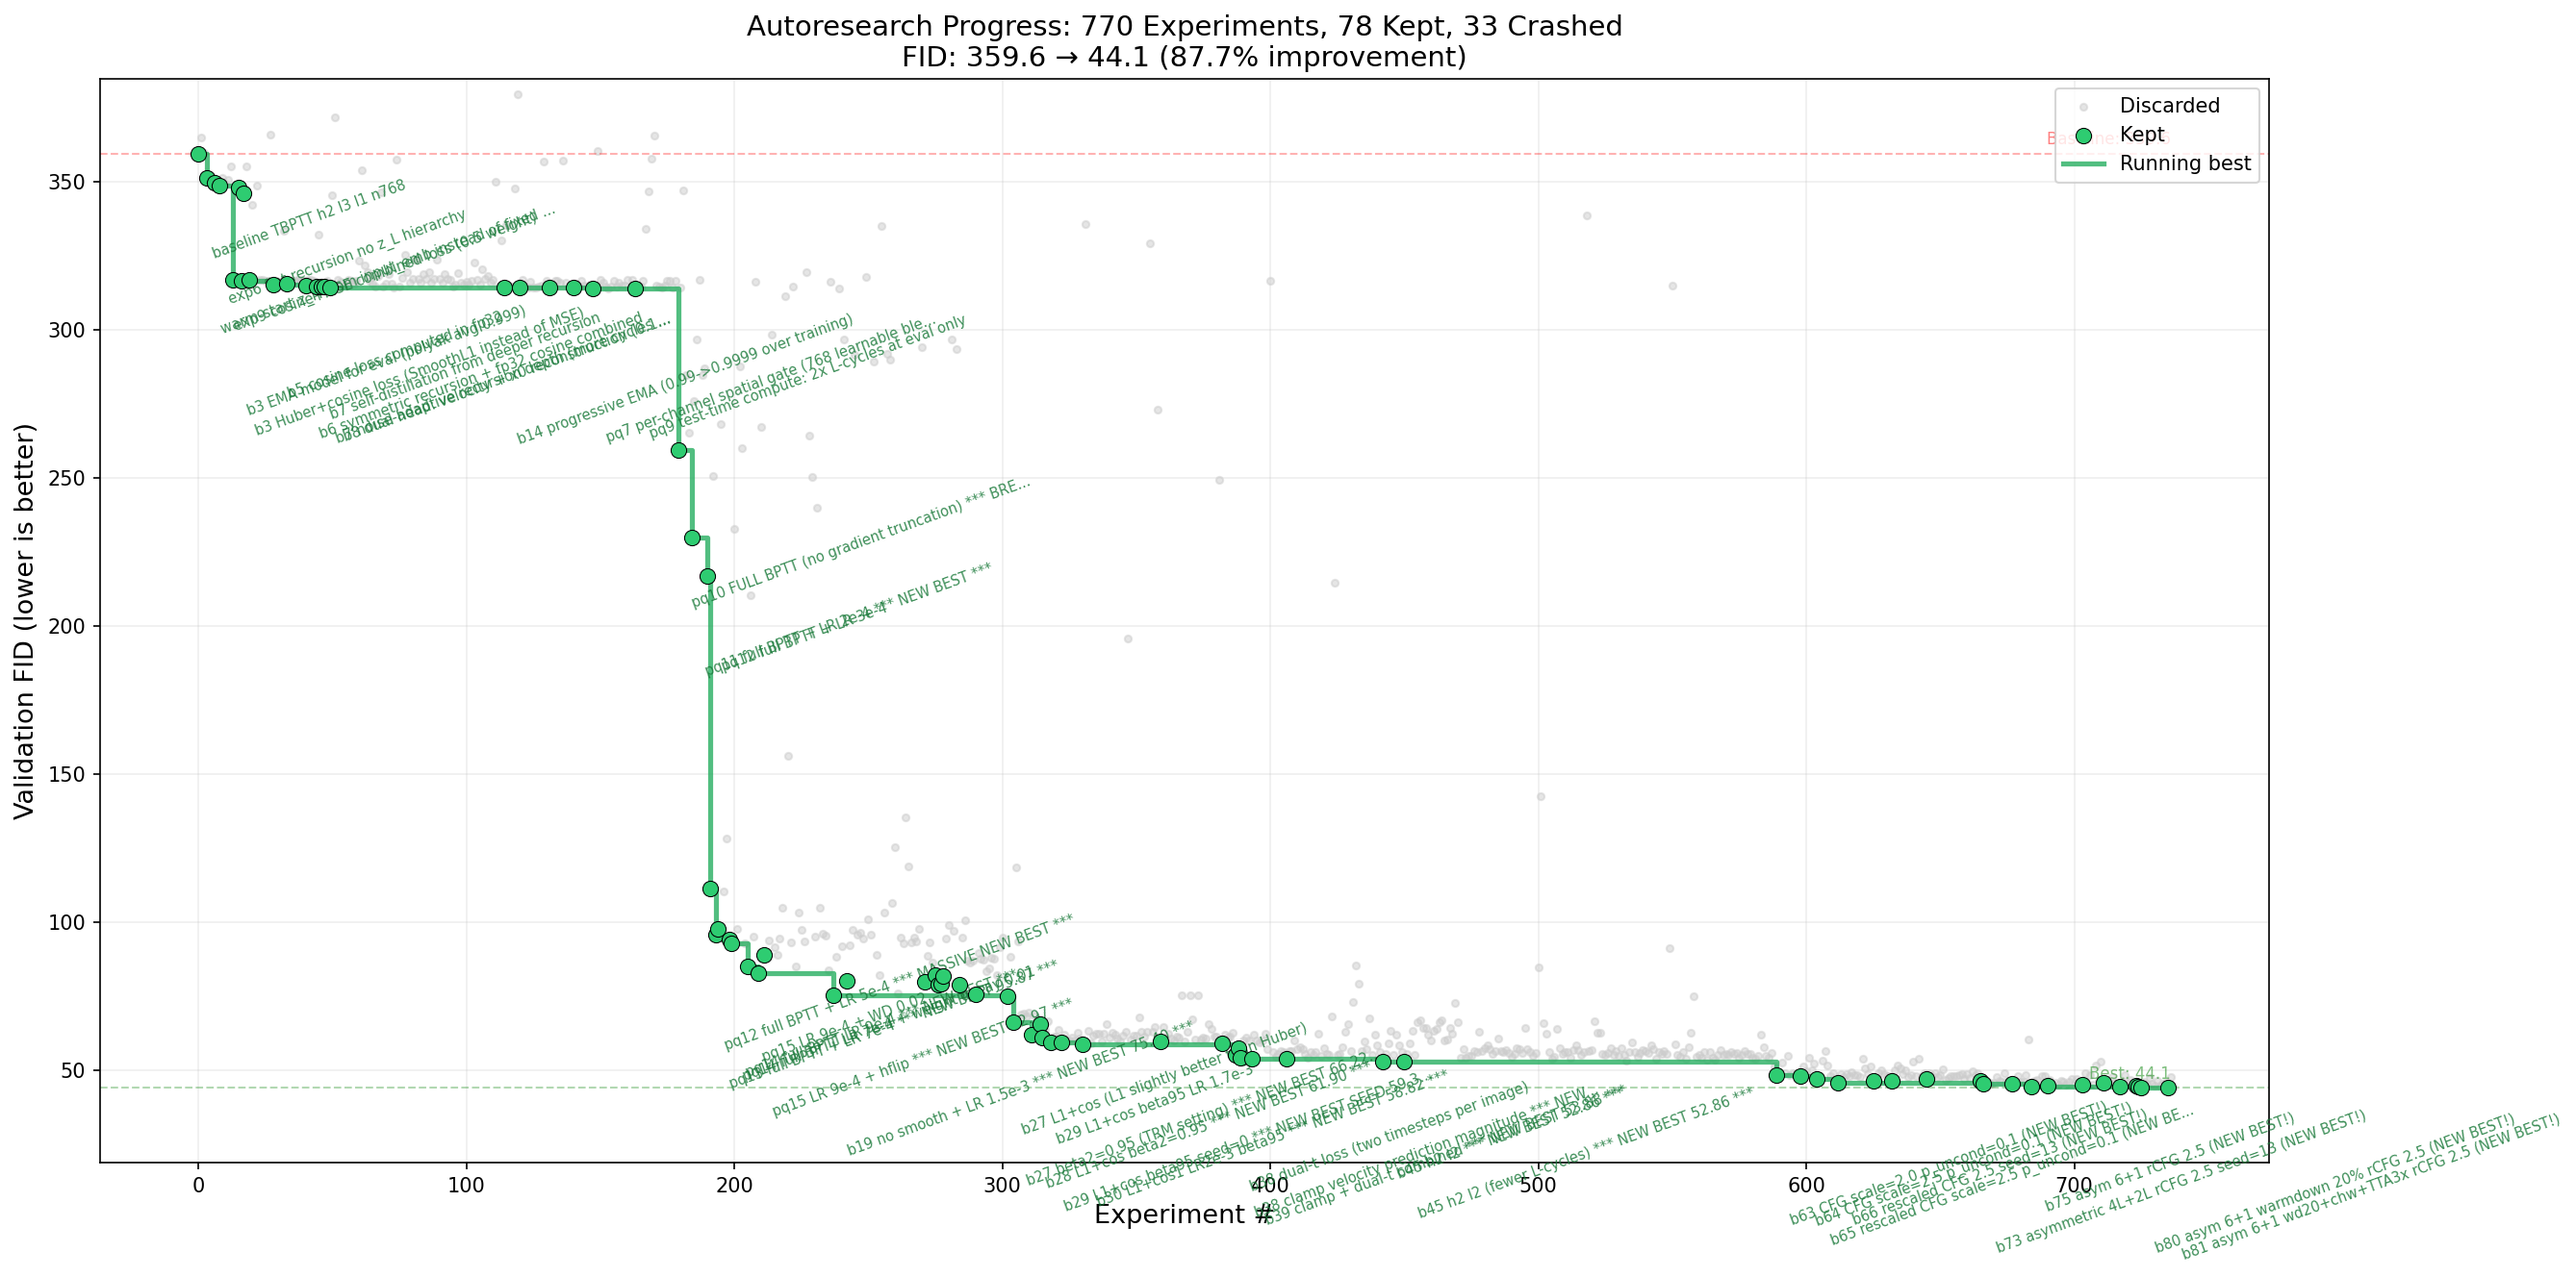
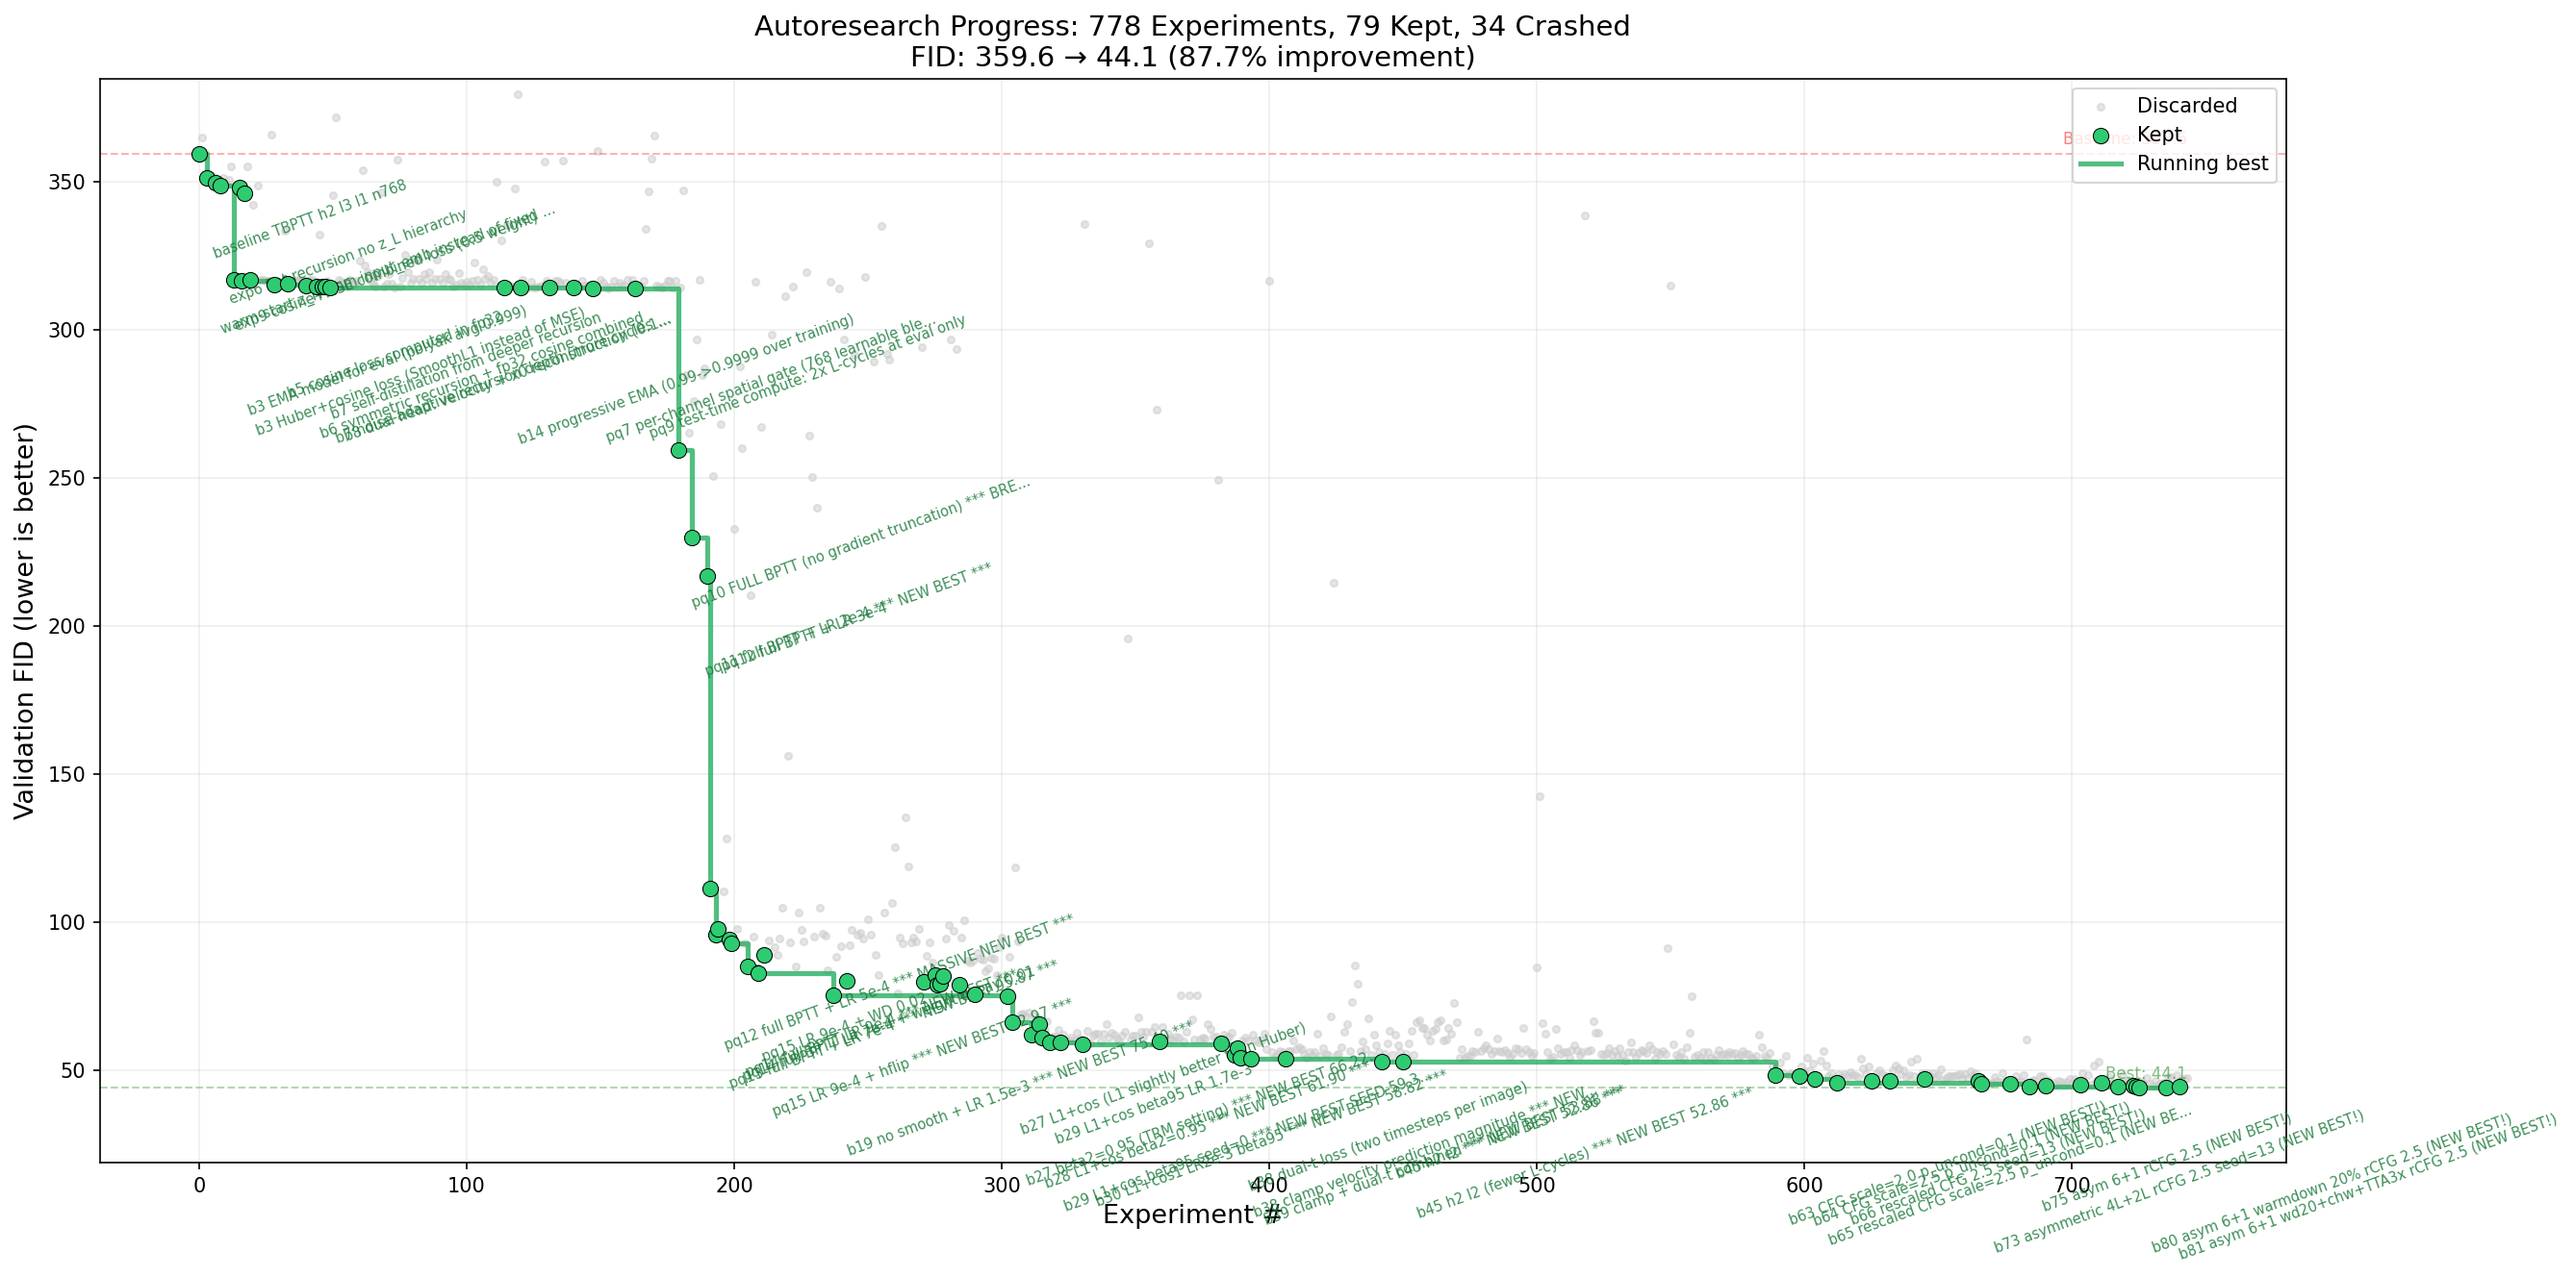
b82: neuroscience-inspired experiments — recursion history memory helps
Tested 5 creative ideas from computational neuroscience:
- Recursion history memory (EMA of z_L states): 44.55 (best of batch)
- Multi-step consistency loss: 44.98 (neutral)
- Contrastive CFG (wrong-class negatives): 47.75 (hurts)
- Predictive coding auxiliary loss: 48.52 (hurts)
- Hebbian gating: 285.31 (catastrophic)

The EMA memory idea (inspired by Alex Graves' NTM) shows promise — giving
the model access to its own recursion trajectory improves predictions.

wd20 baseline with more seeds: mean 46.15±1.3. The warmdown improvement
is within noise range of wd30.

779 experiments. FID 359→44.08 (87.7%).

diff --git a/ideas.md b/ideas.md
@@ -1153,3 +1153,99 @@ Analysis:
 Conclusion:
 Next Ideas to Try:
 -----------------------------------------------------
+
+-----------------------------------------------------
+idea_id: hebbian_z_update
+Description: Replace the standard additive input injection in l_level with a Hebbian-inspired update rule. Instead of z = z + injection, use z = z + alpha * (injection * z.mean(dim=-1, keepdim=True)) where the update is proportional to the correlation between the current state and the injection. This is inspired by Oja's rule from computational neuroscience, where synaptic weights update proportionally to pre-post correlation. The recursive shared-weight block already looks like a recurrent neural circuit — making the update rule Hebbian could improve how information flows through the recursion.
+Confidence: 5
+Why: Bio-mimetic learning rules like Oja's/Hebb's rule have shown surprising effectiveness in simple neural circuits. The TRM recursive structure IS a neural circuit with shared weights. A Hebbian gating mechanism (only update when injection correlates with current state) could help the recursion converge faster and more stably. The risk is that it changes the gradient flow significantly and may need LR adjustment.
+Time of idea generation: 2026-03-24 06:00
+Status: Not Implemented
+HPPs:
+Time of run start and end:
+Results vs. Baseline:
+wandb link:
+Analysis:
+Conclusion:
+Next Ideas to Try:
+-----------------------------------------------------
+
+-----------------------------------------------------
+idea_id: predictive_coding_loss
+Description: Inspired by Karl Friston's predictive coding theory and Rao & Ballard (1999): instead of computing loss only on the final output, add auxiliary "prediction error" losses at each recursion level. At each L-cycle step, the model predicts what the next z_L state should be, and the error between prediction and actual next state becomes an auxiliary loss. This forces each recursive step to make a meaningful prediction, not just pass information through. Implementation: after each l_level call, compute prediction_error = MSE(z_L_predicted, z_L_actual.detach()) and add 0.01 * prediction_error to the total loss.
+Confidence: 5
+Why: Predictive coding is how the brain is hypothesized to process hierarchical information — each level predicts the next and only passes prediction errors upward. Our recursive model has a natural hierarchy (z_L updates → z_H consolidation). Adding prediction error objectives at each level could improve gradient signal through the deep recursion (6 L-cycles in first H). Currently, gradients must flow through all 6 cycles from the final loss — auxiliary losses at each level provide local learning signals, similar to deep supervision in U-Nets.
+Time of idea generation: 2026-03-24 06:00
+Status: Not Implemented
+HPPs:
+Time of run start and end:
+Results vs. Baseline:
+wandb link:
+Analysis:
+Conclusion:
+Next Ideas to Try:
+-----------------------------------------------------
+
+-----------------------------------------------------
+idea_id: attention_to_recursion_history
+Description: Instead of only attending to the current z_H + input_emb in each L-cycle, let the model attend to a compressed history of previous recursion states. Maintain a running "memory" of past z_L states (e.g., exponential moving average) and concatenate it as extra key-value context in attention. This gives the model temporal context within the recursion — it can see how the representation has evolved. Inspired by Alex Graves' work on neural Turing machines and external memory.
+Confidence: 5
+Why: Currently each L-cycle step only sees the current z_L and z_H+input. It has no memory of how z_L evolved through previous cycles. A simple EMA memory (z_mem = 0.9*z_mem + 0.1*z_L after each cycle) concatenated as extra KV tokens in attention would give the model access to the recursion trajectory. This is a lightweight form of "thinking about thinking" — the model can observe its own refinement process. Risk: adds complexity to the attention and may slow down per-step time.
+Time of idea generation: 2026-03-24 06:00
+Status: Not Implemented
+HPPs:
+Time of run start and end:
+Results vs. Baseline:
+wandb link:
+Analysis:
+Conclusion:
+Next Ideas to Try:
+-----------------------------------------------------
+
+-----------------------------------------------------
+idea_id: stochastic_recursion_exit
+Description: Instead of always running exactly 6 L-cycles in the first H-cycle, implement a learned "exit gate" that decides when to stop iterating. After each L-cycle, a small MLP (z_L → scalar sigmoid) predicts a halting probability. Training uses the adaptive computation time (ACT) framework from Alex Graves (2016). This lets the model dynamically allocate compute: easy images exit early (saving compute), hard images use all 6 cycles. The "ponder cost" penalty encourages efficiency. This is directly inspired by Graves' original ACT paper and Schmidhuber's work on self-delimiting programs.
+Confidence: 4
+Why: Different images and timesteps need different amounts of recursive refinement. Clean images near t=1 may only need 2-3 L-cycles, while noisy images near t=0 benefit from all 6. Currently we waste compute on easy cases. ACT gives the model agency over its own computation depth. Risk: ACT is notoriously tricky to train — the halting probability can collapse to always-halt or never-halt. The ponder cost coefficient needs careful tuning.
+Time of idea generation: 2026-03-24 06:00
+Status: Not Implemented
+HPPs:
+Time of run start and end:
+Results vs. Baseline:
+wandb link:
+Analysis:
+Conclusion:
+Next Ideas to Try:
+-----------------------------------------------------
+
+-----------------------------------------------------
+idea_id: contrastive_cfg_training
+Description: Instead of just dropping class labels for CFG training (replacing with zeros), use a contrastive approach: when dropping labels for a sample, replace with a RANDOM WRONG class label instead. This teaches the unconditional pathway to actively distinguish "no class" from "wrong class" — making the CFG direction (cond - uncond) more semantically meaningful. During inference, the "unconditional" path uses zero class embedding as before.
+Confidence: 6
+Why: Current CFG training just zeros out the class embedding. The unconditional model learns to denoise without class information. But contrastive CFG (using wrong class labels as negative examples) teaches the model what NOT to generate, making the guidance direction cond-uncond more aligned with class-specific features. This is inspired by contrastive learning literature (SimCLR, CLIP) where negative examples improve representation quality. The implementation is trivial: one line change in the label dropout code.
+Time of idea generation: 2026-03-24 06:00
+Status: Not Implemented
+HPPs:
+Time of run start and end:
+Results vs. Baseline:
+wandb link:
+Analysis:
+Conclusion:
+Next Ideas to Try:
+-----------------------------------------------------
+
+-----------------------------------------------------
+idea_id: multi_step_consistency_loss  
+Description: Inspired by consistency models (Song et al., 2023): add an auxiliary loss that enforces the model's predictions at different ODE timesteps to be consistent. If the model predicts velocity v(x_t, t), then x_0_hat = x_t + (1-t)*v should be consistent regardless of t. Add loss: MSE(x0_hat_from_t1, x0_hat_from_t2.detach()) for the two timesteps already used in dual-t training. This is essentially free since we already compute two forward passes at different t.
+Confidence: 6
+Why: The dual-t loss already gives us two predictions at different timesteps for the same clean image. These predictions should reconstruct the same x0. Enforcing this consistency is a strong self-supervised signal that doesn't require any additional forward passes. The .detach() on one side makes it a teacher-student style loss. Consistency models have shown impressive results in distillation — applying the same principle during training could improve prediction quality.
+Time of idea generation: 2026-03-24 06:00
+Status: Not Implemented
+HPPs:
+Time of run start and end:
+Results vs. Baseline:
+wandb link:
+Analysis:
+Conclusion:
+Next Ideas to Try:
+-----------------------------------------------------
